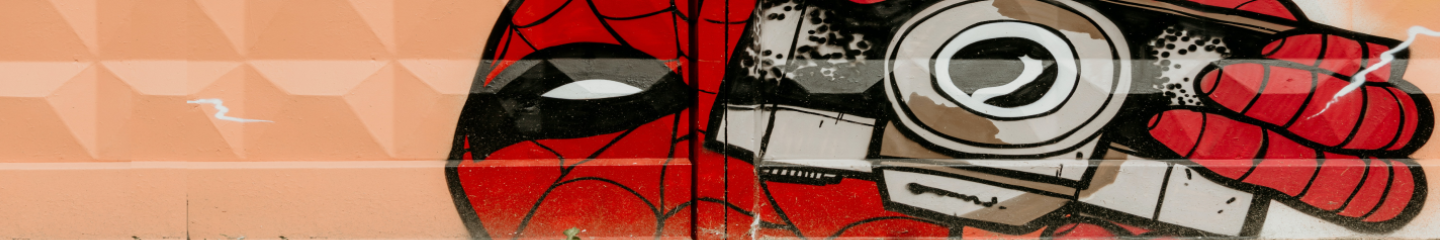
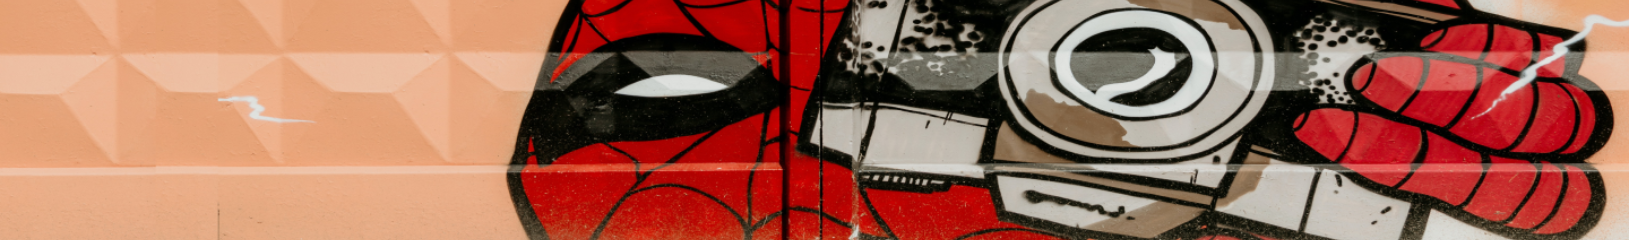
finished homepage, header up for debate

diff --git a/public/index.html b/public/index.html
@@ -1,5 +1,6 @@
 <!DOCTYPE html>
 <html lang="en">
+
 <head>
     <meta charset="UTF-8">
     <meta http-equiv="X-UA-Compatible" content="IE=edge">
@@ -8,10 +9,11 @@
     <link rel="stylesheet" href="https://cdn.jsdelivr.net/npm/bulma@0.9.4/css/bulma.min.css">
     <link rel="stylesheet" href="./css/style.css">
 </head>
+
 <body>
-    
+
     <header class="bg-image">
-        <h1 class="title is-1 ml-6 p-6">The Daily Beliefs</h1>
+        <h1 class="title is-size-1 ml-6 pt-6">The Daily Beliefs</h1>
     </header>
     <nav class="is-flex is-justify-content-space-between">
         <button class="button m-4 is-black">Chat</button>
@@ -20,9 +22,28 @@
 
     <section class="section">
         <div class="container is-fluid">
-            dfgdfad
-            
+            <div id="page-title">
+                <h1 class="title is-1 has-text-centered">Welcome to the Daily Beliefs!</h1>
+            </div>
+            <br>
+            <p class="subtitle is-4 has-text-centered">Your source to report your opinions on Marvel characters!</p>
+            <br>
+            <br>
+            <div class="is-flex is-justify-content-space-around is-align-items-center is-flex-wrap-wrap">
+                <img src="./css/images/typewriter.jpg" id="typewriter" class="mb-6">
+
+                <div class="has-text-centered">
+                    <h2 class="is-size-3 m-4">Click the button below to get started!</h2>
+                    <button class="button is-large is-black mb-6">Get Reporting!</button>
+                </div>
+
+            </div>
+
+
+
         </div>
     </section>
+
 </body>
+
 </html>

diff --git a/public/css/style.css b/public/css/style.css
@@ -1,8 +1,9 @@
 .bg-image {
-    background-image: url('./images/header2.png');
-    height: 240px;
-    background-repeat: no-repeat;
-    background-size: 100%;
+    background-image: url('./images/header3.png');
+    min-height: 240px;
+    /* background-repeat: no-repeat; */
+    /* background-size: 100%; */
+
 }
 
 /* May need to switch to body later */
@@ -16,4 +17,14 @@ html {
 .section {
     padding-top: 0px;
     padding-bottom: 0px;
+}
+
+#page-title {
+    border-top: solid black 2px;
+    border-bottom: solid black 2px;
+}
+
+#typewriter {
+    width: 45vw;
+    border: crimson solid 10px;
 }
